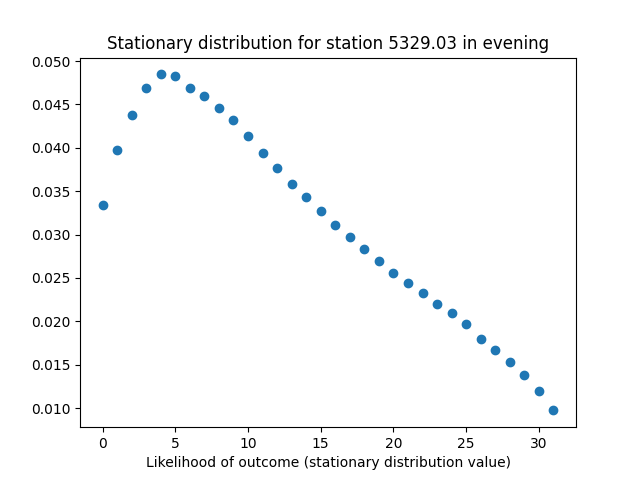
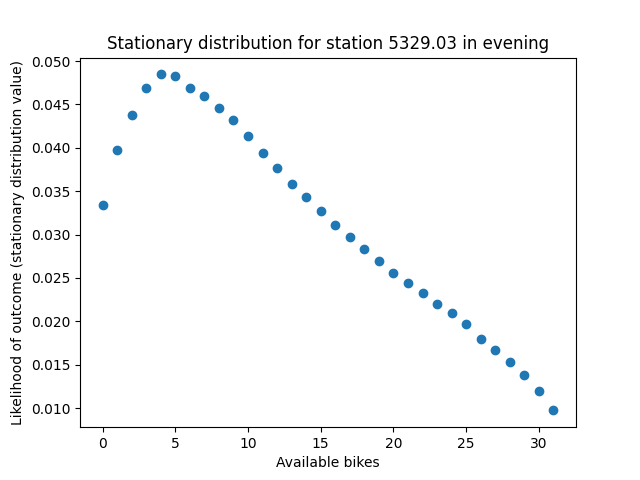
just for Martin

Changed region(s): [[0.2188, 0.9375, 0.8125, 1.0], [0.0, 0.125, 0.0312, 0.875]]

diff --git a/exploration.py b/exploration.py
@@ -155,7 +155,7 @@ def create_station_markov(df, station_id, start_hour, end_hour, time_interval, c
     plt.figure()
     plt.title("Stationary distribution for station " + str(station_id) + " in " + time_frame)
     plt.xlabel("Available bikes")
-    plt.xlabel("Likelihood of outcome (stationary distribution value)")
+    plt.ylabel("Likelihood of outcome (stationary distribution value)")
     plt.scatter(stat_df.index.values, stat_df['Stationary Distribution'].values)
     plt.savefig('stationary_distributions/' + str(station_id) + '_' + time_frame + '_' + str(time_interval) + '.png')
     #np.savetxt('stationary_distributions/' + str(station_id) + '_' + time_frame + '_' + str(time_interval) + ".csv", stationary, delimiter=",")
